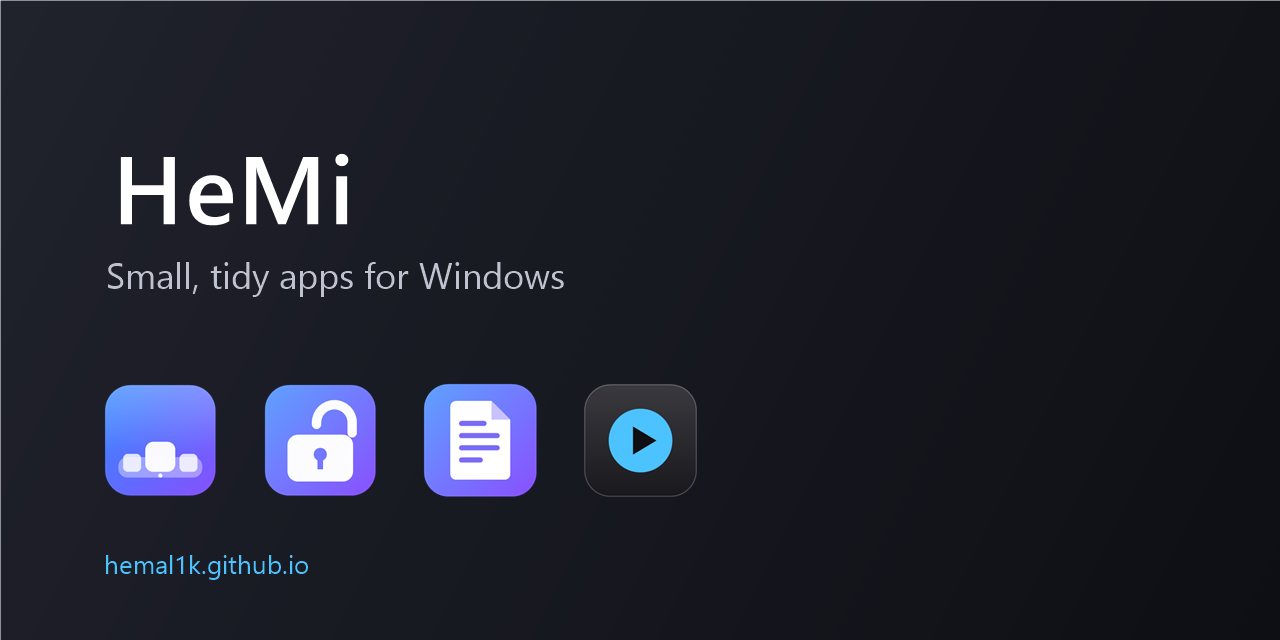
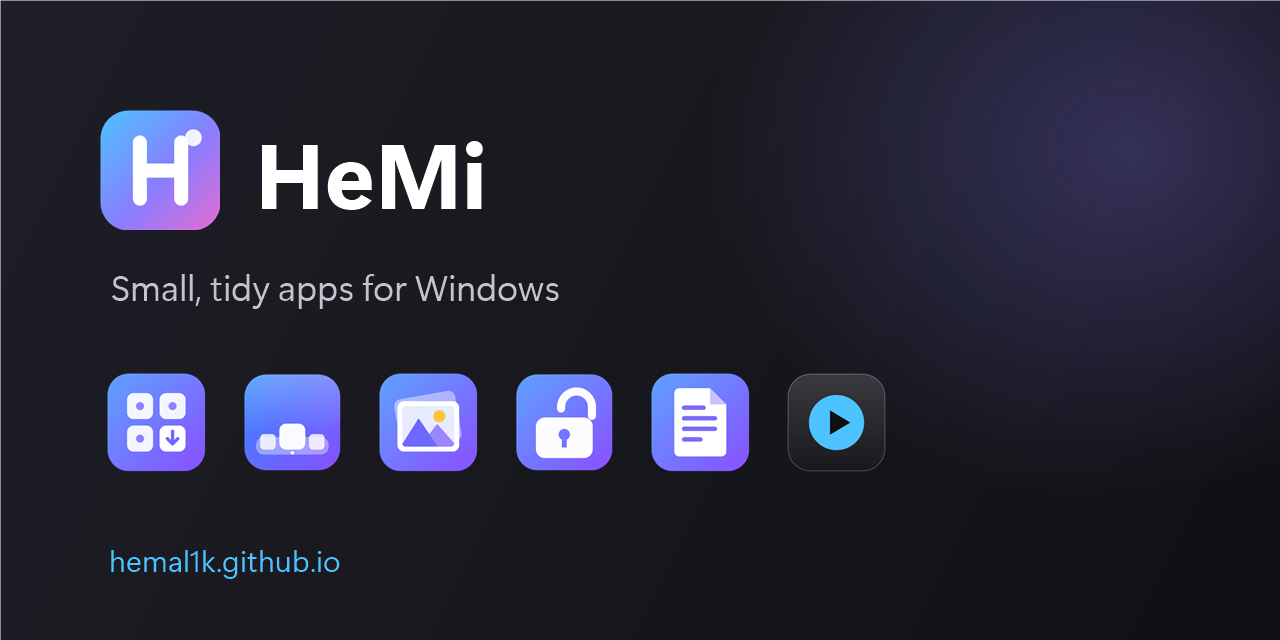
Whole app cards clickable, no Principles / More links, texts and images up to date, new previews

diff --git a/about.html b/about.html
@@ -38,7 +38,7 @@
     <h2>What goes over the internet</h2>
     <table class="req">
       <tr><td>HeMi Launcher</td><td>Only <b>GitHub</b>: it asks for the latest releases of the HeMi apps (after its start and every 4 hours, or when you click Refresh) and downloads the installers of the apps you install or update – over HTTPS, without any identifier of you or your PC.</td></tr>
-      <tr><td>HeMiPix</td><td>Nothing. It never connects to the internet – the photos never leave your PC.</td></tr>
+      <tr><td>HeMiPix</td><td>The photos never leave your PC. Only when you install the free HEIF / HEVC extensions of Microsoft (asked first): winget and the Microsoft Store.</td></tr>
       <tr><td>HeMiUnlocker</td><td>Nothing. It never connects to the internet.</td></tr>
       <tr><td>HeMiPad</td><td>Nothing. It never connects to the internet – even the spell check uses the dictionaries already in Windows.</td></tr>
       <tr><td>HeMi Dark</td><td>Nothing – it is a set of skin files for VLC, not a program.</td></tr>
@@ -64,8 +64,8 @@
       <tr><td>HeMiPix</td><td><code>%AppData%\HeMi\HeMiPix\settings.ini</code>; the photos it makes go where you choose (next to the originals by default).</td></tr>
       <tr><td>HeMiPad</td><td><code>%AppData%\HeMi\HeMiPad\settings.ini</code></td></tr>
       <tr><td>HeMi Launcher</td><td><code>%AppData%\HeMi\HeMiLauncher\settings.ini</code>; for the other HeMi apps it notes where it is (<code>HKCU\Software\HeMi\HeMiLauncher</code>) and which updates it found (<code>%LocalAppData%\HeMi\HeMiLauncher</code>).</td></tr>
-      <tr><td>HeMiUnlocker</td><td>Keeps no settings; only the optional File Explorer submenu is written to <code>HKCU\Software\Classes</code> (and, for the notifications of “Unlock”, its name and icon).</td></tr>
-      <tr><td>The programs</td><td>The installer asks: just for you (<code>%LocalAppData%\Programs</code>, no administrator rights) or for all users (<code>Program Files</code>). The portable versions run from any folder.</td></tr>
+      <tr><td>HeMiUnlocker</td><td>Keeps no settings of its own; only the optional File Explorer submenu is written to <code>HKCU\Software\Classes</code> (and, for the notifications of “Unlock”, its name and icon).</td></tr>
+      <tr><td>The programs</td><td>The installer asks: just for you (<code>%LocalAppData%\Programs</code>, no administrator rights) or for all users (<code>Program Files</code>), x64 or ARM64. Uninstalling asks whether to delete the settings or keep them. The portable versions run from any folder.</td></tr>
     </table>
   </section>
 
@@ -74,7 +74,7 @@
     <ul>
       <li><b>Built in the open.</b> Every download is built by GitHub Actions from the public source of its version – you can see the build log of each release on the Actions page of the project.</li>
       <li><b>Checksums.</b> Each release has a <code>SHA256SUMS.txt</code>. To compare, open PowerShell in the download folder and run <code>Get-FileHash HeMiDock-Setup.exe</code> – the hash must be the same as in the file.</li>
-      <li><b>Updates only from the projects.</b> HeMiDock and HeMi Launcher download updates only from the Releases of the HeMi projects on GitHub, over HTTPS, and install them only after you agree (or after you switch on quiet installing in the launcher).</li>
+      <li><b>Updates only from the projects.</b> HeMiDock and HeMi Launcher download updates only from the Releases of the HeMi projects on GitHub, over HTTPS (HeMi Launcher checks every download against <code>SHA256SUMS.txt</code> first), and install them only after you agree (or after you switch on quiet installing in the launcher).</li>
       <li><b>Windows SmartScreen.</b> The apps are not code-signed (a certificate costs hundreds of euros a year), so Windows can show “Windows protected your PC” the first time. Choose <i>More info → Run anyway</i> – or check the checksum first.</li>
     </ul>
   </section>

diff --git a/index.html b/index.html
@@ -24,7 +24,6 @@
     <a class="brand" href="./"><img src="assets/favicon.svg" alt=""> HeMi</a>
     <nav>
       <a href="#apps">Apps</a>
-      <a href="#rules">Principles</a>
       <a href="https://github.com/Hemal1k">GitHub</a>
     </nav>
   </div>
@@ -57,7 +56,6 @@
           <div class="actions">
             <a class="btn primary small" href="https://github.com/Hemal1k/HeMiDock/releases/latest/download/HeMiDock-Setup.exe">Installer <small>.exe</small></a>
             <a class="btn small" href="https://github.com/Hemal1k/HeMiDock/releases/latest/download/HeMiDock-Portable.zip">Portable <small>.zip</small></a>
-            <a class="more" href="hemidock.html">More →</a>
           </div>
         </div>
         <div class="card app-card">
@@ -66,7 +64,6 @@
           <div class="actions">
             <a class="btn primary small" href="https://github.com/Hemal1k/HeMiPix/releases/latest/download/HeMiPix-Setup.exe">Installer <small>.exe</small></a>
             <a class="btn small" href="https://github.com/Hemal1k/HeMiPix/releases/latest/download/HeMiPix-Portable.zip">Portable <small>.zip</small></a>
-            <a class="more" href="hemipix.html">More →</a>
           </div>
         </div>
         <div class="card app-card">
@@ -75,7 +72,6 @@
           <div class="actions">
             <a class="btn primary small" href="https://github.com/Hemal1k/HeMiUnlocker/releases/latest/download/HeMiUnlocker-Setup.exe">Installer <small>.exe</small></a>
             <a class="btn small" href="https://github.com/Hemal1k/HeMiUnlocker/releases/latest/download/HeMiUnlocker-Portable.zip">Portable <small>.zip</small></a>
-            <a class="more" href="hemiunlocker.html">More →</a>
           </div>
         </div>
         <div class="card app-card">
@@ -84,7 +80,6 @@
           <div class="actions">
             <a class="btn primary small" href="https://github.com/Hemal1k/HeMiPad/releases/latest/download/HeMiPad-Setup.exe">Installer <small>.exe</small></a>
             <a class="btn small" href="https://github.com/Hemal1k/HeMiPad/releases/latest/download/HeMiPad-Portable.zip">Portable <small>.zip</small></a>
-            <a class="more" href="hemipad.html">More →</a>
           </div>
         </div>
         <div class="card app-card">
@@ -92,7 +87,6 @@
           <p>A dark skin for VLC media player in the style of Windows 11 – nine colours, every display scaling.</p>
           <div class="actions">
             <a class="btn primary small" href="https://github.com/Hemal1k/HeMiDark/releases/latest/download/HeMiDark-Skins.zip">Skins <small>.zip</small></a>
-            <a class="more" href="hemidark.html">More →</a>
           </div>
         </div>
       </div>
@@ -102,7 +96,7 @@
       <h2>The same rules for all</h2>
       <div class="grid four">
         <div class="card rule"><span class="dot">✓</span><h3>Free and open source</h3><p>MIT license, all code on GitHub, every download built from it in the open.</p></div>
-        <div class="card rule"><span class="dot">✓</span><h3>No ads, no tracking</h3><p>No telemetry and no accounts; HeMiPix, HeMiUnlocker and HeMiPad never go online at all.</p></div>
+        <div class="card rule"><span class="dot">✓</span><h3>No ads, no tracking</h3><p>No telemetry and no accounts; HeMiUnlocker and HeMiPad never go online at all.</p></div>
         <div class="card rule"><span class="dot">✓</span><h3>The look of Windows 11</h3><p>Light and dark, the accent colour of Windows, Mica – they fit in instead of standing out.</p></div>
         <div class="card rule"><span class="dot">✓</span><h3>Small and light</h3><p>One small program each, quick to start, nothing running that you did not ask for.</p></div>
       </div>

diff --git a/hemiunlocker.html b/hemiunlocker.html
@@ -41,6 +41,7 @@
       <div class="card"><h3>Find the holder</h3><p>Choose a file or folder – a button, drag and drop, or the item in the File Explorer menu – and see every program holding it: name, kind, process, administrator or not.</p></div>
       <div class="card"><h3>Close it</h3><p>Asks the program to close like its × button, so it can still save; when it does not, Force quit ends it after a confirmation.</p></div>
       <div class="card"><h3>Unlock in one click</h3><p>Right-click a file → HeMiUnlocker → Unlock: the holders are closed without opening the window, as administrator if needed, and a notification tells the result.</p></div>
+      <div class="card"><h3>Take ownership</h3><p>A file or folder you are not allowed to touch: in one click it goes to the Administrators, with full control – also from the File Explorer menu.</p></div>
       <div class="card"><h3>Safe</h3><p>System processes cannot be ended, a reused process ID is never hit, and File Explorer is restarted instead of being killed.</p></div>
       <div class="card"><h3>Simple</h3><p>One window, the look of Windows 11, light and dark. The File Explorer submenu is optional and off by default.</p></div>
     </div>
@@ -50,7 +51,8 @@
     <h2>Downloads</h2>
     <table class="req">
       <tr><td>HeMiUnlocker-Setup.exe</td><td>The installer: just for you or for all users, with a Start menu entry and an uninstaller.</td></tr>
-      <tr><td>HeMiUnlocker-Portable.zip</td><td>Just the program – run it from any folder.</td></tr>
+      <tr><td>HeMiUnlocker-Portable.zip</td><td>Just the program – run it from any folder (<code>-arm64</code> for Windows on ARM).</td></tr>
+      <tr><td>HeMi Launcher</td><td>Or get it with <a href="hemilauncher.html">HeMi Launcher</a> – it installs and updates all HeMi apps.</td></tr>
       <tr><td>Problems, ideas</td><td><a href="https://github.com/Hemal1k/HeMiUnlocker/issues">GitHub Issues</a></td></tr>
     </table>
   </section>

diff --git a/hemilauncher.html b/hemilauncher.html
@@ -10,7 +10,7 @@
   <meta property="og:title" content="HeMi Launcher">
   <meta property="og:description" content="Installs the HeMi apps for Windows with one click and keeps them up to date in the background. Free and open source.">
   <meta property="og:url" content="https://hemal1k.github.io/hemilauncher.html">
-  <meta property="og:image" content="https://hemal1k.github.io/assets/og-hemi.png">
+  <meta property="og:image" content="https://hemal1k.github.io/assets/og-hemilauncher.png">
   <meta name="twitter:card" content="summary_large_image">
   <link rel="icon" href="assets/hemilauncher.png">
   <link rel="apple-touch-icon" href="assets/favicon-180.png">
@@ -43,6 +43,8 @@
       <div class="card"><h3>Out of the way</h3><p>Closing hides it in the notification area, it can start with Windows, and a Windows notification tells you about new versions.</p></div>
       <div class="card"><h3>Works with the apps</h3><p>With the launcher on the PC the apps leave their updates to it; HeMiDock shows the new versions among its status icons.</p></div>
       <div class="card"><h3>What's new</h3><p>The notes of every release right in the launcher, before you update.</p></div>
+      <div class="card"><h3>Checked downloads</h3><p>Every installer and zip is compared with the checksums of its release before it is run or unpacked.</p></div>
+      <div class="card"><h3>Portable versions</h3><p>Into the Downloads folder or a folder you choose – and kept up to date like the installed apps.</p></div>
       <div class="card"><h3>Updates itself</h3><p>The installed one with its installer, the portable one by replacing its own exe.</p></div>
     </div>
   </section>

diff --git a/hemipix.html b/hemipix.html
@@ -43,14 +43,15 @@
       <div class="card"><h3>Smaller</h3><p>A quality slider for JPG and WebP with a hint what the value means; the saved space shown for every photo.</p></div>
       <div class="card"><h3>Crop</h3><p>A preview with a frame to drag – free or 1:1, 4:3, 3:2, 16:9 – for any photo of the list.</p></div>
       <div class="card"><h3>Nothing lost</h3><p>Photos come out upright; the date taken, the camera and the location (or not – your choice), the colour profile and the file date stay.</p></div>
-      <div class="card"><h3>Private</h3><p>No internet features at all – the photos never leave your PC.</p></div>
+      <div class="card"><h3>Private</h3><p>The photos never leave your PC. It goes online only when you install the HEIC extensions of Microsoft.</p></div>
     </div>  </section>
 
   <section>
     <h2>Downloads</h2>
     <table class="req">
       <tr><td>HeMiPix-Setup.exe</td><td>The installer: just for you or for all users, with a Start menu entry, an optional desktop shortcut and an uninstaller.</td></tr>
-      <tr><td>HeMiPix-Portable.zip</td><td>Just the program – run it from any folder.</td></tr>
+      <tr><td>HeMiPix-Portable.zip</td><td>Just the program – run it from any folder (<code>-arm64</code> for Windows on ARM).</td></tr>
+      <tr><td>HeMi Launcher</td><td>Or get it with <a href="hemilauncher.html">HeMi Launcher</a> – it installs and updates all HeMi apps.</td></tr>
       <tr><td>Problems, ideas</td><td><a href="https://github.com/Hemal1k/HeMiPix/issues">GitHub Issues</a></td></tr>
     </table>
   </section>

diff --git a/hemidock.html b/hemidock.html
@@ -57,8 +57,9 @@
   <section>
     <h2>Downloads</h2>
     <table class="req">
-      <tr><td>HeMiDock-Setup.exe</td><td>The installer, for most people: just for you or for all users, gets what is missing, updates come by themselves.</td></tr>
-      <tr><td>HeMiDock-Portable.zip</td><td>Runs from any folder without installing anything (bigger, updates by hand).</td></tr>
+      <tr><td>HeMiDock-Setup.exe</td><td>The installer, for most people: just for you or for all users, x64 or ARM64, gets what is missing, updates come by themselves (or by HeMi Launcher).</td></tr>
+      <tr><td>HeMiDock-Portable.zip</td><td>Runs from any folder without installing anything (bigger, updates by hand; <code>-arm64</code> for Windows on ARM).</td></tr>
+      <tr><td>HeMi Launcher</td><td>Or get it with <a href="hemilauncher.html">HeMi Launcher</a> – it installs and updates all HeMi apps.</td></tr>
       <tr><td>Changes</td><td><a href="https://github.com/Hemal1k/HeMiDock/releases">All releases with their notes</a></td></tr>
       <tr><td>Problems, ideas</td><td><a href="https://github.com/Hemal1k/HeMiDock/issues">GitHub Issues</a></td></tr>
     </table>

diff --git a/assets/style.css b/assets/style.css
@@ -84,7 +84,10 @@ table.req ul { margin: 6px 0 0; padding-left: 20px; }
 .app-card .project-head:hover { text-decoration: none; color: var(--accent); }
 .app-card .actions { display: flex; flex-wrap: wrap; align-items: center; gap: 8px; margin-top: 16px; }
 .btn.small { padding: 7px 12px; font-size: 14px; border-radius: 8px; }
-.app-card .more { margin-left: auto; font-size: 14px; }
+/* the whole card opens the page of the app (its title link is stretched over it); the download buttons stay above */
+.app-card { position: relative; }
+.app-card .project-head::after { content: ""; position: absolute; inset: 0; border-radius: inherit; z-index: 0; }
+.app-card .actions { position: relative; z-index: 1; }
 /* ───── the top bar ───── */
 .topbar { position: sticky; top: 0; z-index: 10; backdrop-filter: saturate(160%) blur(14px); -webkit-backdrop-filter: saturate(160%) blur(14px);
   background: color-mix(in srgb, var(--bg) 72%, transparent); border-bottom: 1px solid color-mix(in srgb, var(--line) 60%, transparent); }

diff --git a/hemipad.html b/hemipad.html
@@ -51,7 +51,8 @@
     <h2>Downloads</h2>
     <table class="req">
       <tr><td>HeMiPad-Setup.exe</td><td>The installer: just for you or for all users, with a Start menu entry and an uninstaller.</td></tr>
-      <tr><td>HeMiPad-Portable.zip</td><td>Just the program – run it from any folder.</td></tr>
+      <tr><td>HeMiPad-Portable.zip</td><td>Just the program – run it from any folder (<code>-arm64</code> for Windows on ARM).</td></tr>
+      <tr><td>HeMi Launcher</td><td>Or get it with <a href="hemilauncher.html">HeMi Launcher</a> – it installs and updates all HeMi apps.</td></tr>
       <tr><td>Problems, ideas</td><td><a href="https://github.com/Hemal1k/HeMiPad/issues">GitHub Issues</a></td></tr>
     </table>
   </section>
